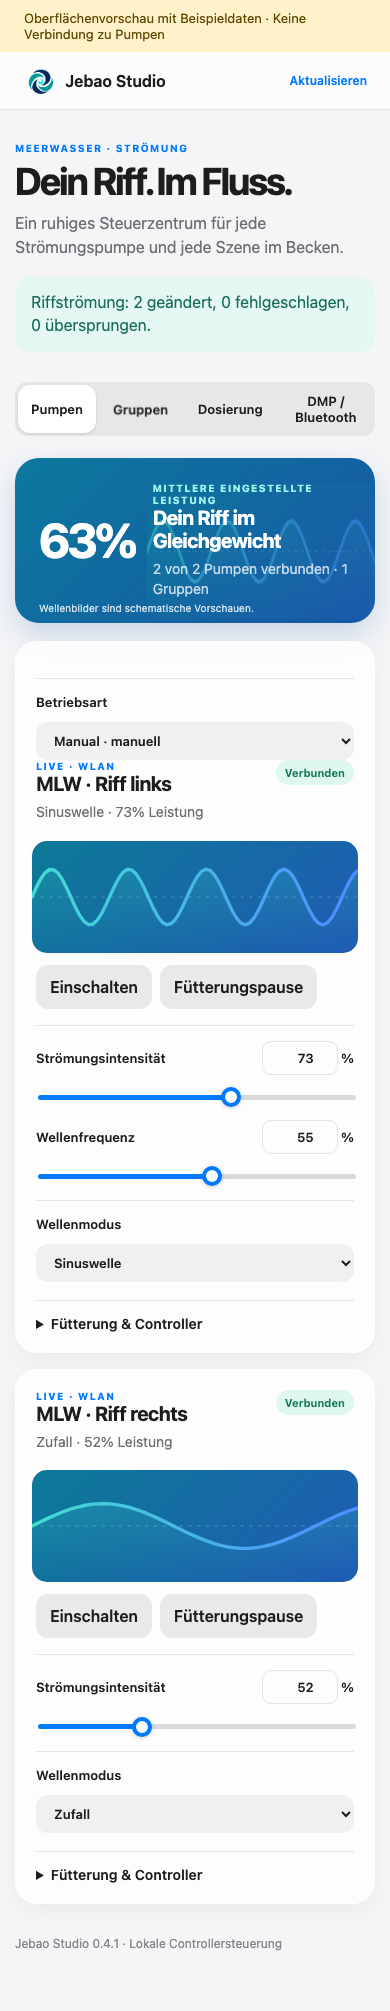
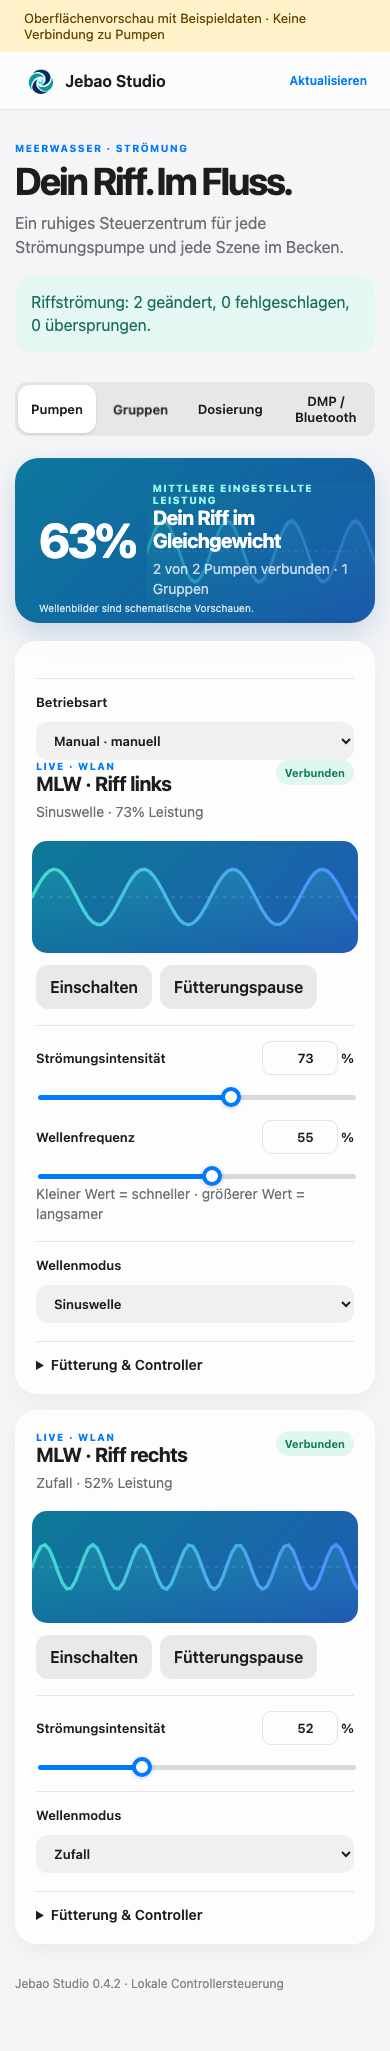
Correct wave rate preview and retry unconfirmed controller settings

diff --git a/custom_components/jebao_studio/panel/jebao-studio.js b/custom_components/jebao_studio/panel/jebao-studio.js
@@ -1,4 +1,4 @@
-import {command, offline, labels, groupDevices, controllable, controlsForDevice} from './model.js?v=0.4.1';
+import {command, offline, labels, groupDevices, controllable, controlsForDevice} from './model.js?v=0.4.2';
 
 const el=(tag,text,cls)=>{const n=document.createElement(tag);if(text!=null)n.textContent=text;if(cls)n.className=cls;return n};
 const n=value=>Math.max(0,Math.min(100,Number(value)||0));
@@ -15,7 +15,7 @@ class JebaoStudioPanel extends HTMLElement {
   connectedCallback(){if(this._renderGuardInstalled)return;this._renderGuardInstalled=true;this._drafts=new Map();this._interacting=false;const draw=this.render.bind(this);this.render=()=>{if(!this._interacting&&!this.busy&&!this.shadowRoot.activeElement?.matches('input,select')){draw();this.decorate()}};const card=this.card.bind(this);this.card=device=>this.enhanceCard(card(device),device);const groupCard=this.groupCard.bind(this);this.groupCard=group=>this.enhanceGroup(groupCard(group),group)}
   decorate(){
     const root=this.shadowRoot;
-    const footer=root.querySelector?.('footer');if(footer)footer.textContent='Jebao Studio 0.4.1 · Lokale Controllersteuerung';
+    const footer=root.querySelector?.('footer');if(footer)footer.textContent='Jebao Studio 0.4.2 · Lokale Controllersteuerung';
     for(const wave of root.querySelectorAll?.('.wave')||[])wave.setAttribute('aria-label','Schematische Modusdarstellung, keine Messung des Wasserflusses');
     const summary=root.querySelector?.('.summary');if(summary){const label=summary.querySelector('.eyebrow');if(label)label.textContent='MITTLERE EINGESTELLTE LEISTUNG';summary.append(el('small','Wellenbilder sind schematische Vorschauen.','wave-note'))}
     const style=el('style');style.textContent='details{margin-top:18px;border-top:1px solid var(--line);padding-top:14px}summary{cursor:pointer;font-size:14px;font-weight:600}details .secondary{margin-top:10px}.wave-note{position:absolute;bottom:9px;left:24px;font-size:10px;opacity:.8}button{min-height:44px}button:focus-visible,select:focus-visible,input:focus-visible{outline:3px solid #007aff;outline-offset:3px}input[type=range]{touch-action:pan-y}input:disabled{opacity:.5}.card h2{overflow-wrap:anywhere}.control-label{gap:10px;align-items:center}.summary>div:not(.wave){z-index:1}.summary .wave{pointer-events:none}';root.append(style);
@@ -77,7 +77,7 @@ class JebaoStudioPanel extends HTMLElement {
     if(failed.length)this.error=failed.map(r=>r.reason?.message||String(r.reason)).join(' · ');
     this.busy=false;this.render();
   }
-  wave(intensity,frequency,mode){const amp=8+n(intensity)*.23,cycles=1.15+n(frequency)/18,points=[];for(let x=0;x<=300;x+=4)points.push(x+','+(50-Math.sin(x/300*Math.PI*2*cycles)*amp).toFixed(1));const square=/square|rechteck|pulse|puls/i.test(String(mode||''));const path=constant(mode)?'M0 50 H300':square?'M0 50 H38 V'+(50+amp)+' H76 V'+(50-amp)+' H114 V'+(50+amp)+' H152 V'+(50-amp)+' H190 V'+(50+amp)+' H228 V'+(50-amp)+' H266 V'+(50+amp)+' H300':('M'+points.join(' L'));const box=el('div',null,'wave');box.innerHTML='<svg viewBox="0 0 300 100" preserveAspectRatio="none" aria-hidden="true"><defs><linearGradient id="j-wave" x1="0" x2="1"><stop stop-color="#44ddd2"/><stop offset="1" stop-color="#4c8cff"/></linearGradient><linearGradient id="j-fill" x1="0" x2="0" y1="0" y2="1"><stop stop-color="#44ddd2" stop-opacity=".18"/><stop offset="1" stop-color="#44ddd2" stop-opacity="0"/></linearGradient></defs><path d="M0 50 H300" stroke="rgba(255,255,255,.24)" stroke-dasharray="3 5"/><path d="'+path+' V100 H0 Z" fill="url(#j-fill)"/><path d="'+path+'" fill="none" stroke="url(#j-wave)" stroke-width="3" stroke-linecap="round"/></svg>';return box}
+  wave(intensity,frequency,mode){const amp=8+n(intensity)*.23,cycles=1.15+(100-n(frequency))/18,points=[];for(let x=0;x<=300;x+=4)points.push(x+','+(50-(/square|rechteck|pulse|puls/i.test(String(mode||''))?Math.sign(Math.sin(x/300*Math.PI*2*cycles)):Math.sin(x/300*Math.PI*2*cycles))*amp).toFixed(1));const square=/square|rechteck|pulse|puls/i.test(String(mode||''));const path=constant(mode)?'M0 50 H300':('M'+points.join(' L'));const box=el('div',null,'wave');box.innerHTML='<svg viewBox="0 0 300 100" preserveAspectRatio="none" aria-hidden="true"><defs><linearGradient id="j-wave" x1="0" x2="1"><stop stop-color="#44ddd2"/><stop offset="1" stop-color="#4c8cff"/></linearGradient><linearGradient id="j-fill" x1="0" x2="0" y1="0" y2="1"><stop stop-color="#44ddd2" stop-opacity=".18"/><stop offset="1" stop-color="#44ddd2" stop-opacity="0"/></linearGradient></defs><path d="M0 50 H300" stroke="rgba(255,255,255,.24)" stroke-dasharray="3 5"/><path d="'+path+' V100 H0 Z" fill="url(#j-fill)"/><path d="'+path+'" fill="none" stroke="url(#j-wave)" stroke-width="3" stroke-linecap="round"/></svg>';return box}
   slider(entity,title,fn,unit){
     if(!entity)return null;
     this._drafts??=new Map();
@@ -107,7 +107,7 @@ class JebaoStudioPanel extends HTMLElement {
     number.oninput=()=>{begin();if(number.checkValidity()&&number.value!==''){input.value=number.value;paint()}};
     number.onchange=commit;number.onkeydown=event=>{if(event.key==='Enter'){event.preventDefault();commit()}if(event.key==='Escape'){number.value=input.value=state.state;paint();this._interacting=false;number.blur()}};
     number.onblur=()=>{if(number.checkValidity()&&number.value!=='')commit();else{number.value=input.value=committed;paint();this._interacting=false}};
-    input.onblur=()=>{this._interacting=false};wrap.append(label,input,hint);return wrap;
+    input.onblur=()=>{this._interacting=false};wrap.append(label,input,hint);if(/frequenz/i.test(title))wrap.append(el('small','Kleiner Wert = schneller · größerer Wert = langsamer','subtle'));return wrap;
   }
   picker(entity,fn){if(!entity)return null;const state=this._hass.states[entity.entity_id],row=el('label',null,'mode-picker'),select=el('select');row.append(el('span','Wellenmodus'));for(const v of state.attributes.options||[]){const o=el('option',labels[v]||v);o.value=v;o.selected=v===state.state;select.append(o)}select.disabled=this.busy;select.setAttribute('aria-label',entity.name||'Modus');select.onchange=async()=>{select.disabled=true;try{await fn(select.value)}finally{select.disabled=false;select.blur();this.render()}};select.onblur=()=>{if(!this.busy)this.render()};row.append(select);return row}
   card(device){const card=el('article',null,'card');if(device.configured_only){card.append(el('div','GESPEICHERT · NICHT GELADEN','eyebrow'),el('h2',device.name),el('p','Der Controller ist eingerichtet, aber nicht aktiv. Bitte Home Assistant neu starten und die Integration prüfen.','subtle'));return card}const c=controls(device,this._hass.states),online=device.entities.some(e=>!offline(this._hass.states[e.entity_id])),raw=this._hass.states[c.mode?.entity_id]?.state,mode=labels[raw]||raw||'Automatisch',intensity=value(c.intensity,this._hass.states),frequency=value(c.frequency,this._hass.states),head=el('div',null,'card-header'),copy=el('div');copy.append(el('div',online?'LIVE · WLAN':'OFFLINE','eyebrow'),el('h2',device.name),el('p',mode+' · '+intensity+'% Leistung','subtle'));head.append(copy,el('span',online?'Verbunden':'Nicht erreichbar',online?'pill live':'pill'));card.append(head,this.wave(intensity,frequency,raw));const actions=el('div',null,'actions');if(c.power){const on=this._hass.states[c.power.entity_id]?.state==='on';actions.append(this.button(on?'Ausschalten':'Einschalten',()=>this.set(c.power.entity_id,!on),on?'primary':'secondary'))}if(c.feed)actions.append(this.button('Fütterungspause',()=>this.set(c.feed.entity_id,true),'secondary'));card.append(actions);if(!online){card.append(el('p','Steuerung wird wieder verfügbar, sobald der Controller erreichbar ist.','offline-note'));return card}const area=el('div',null,'control-area'),strength=this.slider(c.intensity,'Strömungsintensität',x=>this.set(c.intensity.entity_id,x));if(strength)area.append(strength);if(!constant(raw)){const frequencyControl=this.slider(c.frequency,'Wellenfrequenz',x=>this.set(c.frequency.entity_id,x));if(frequencyControl)area.append(frequencyControl)}card.append(area);const picker=this.picker(c.mode,x=>this.set(c.mode.entity_id,x));if(picker)card.append(picker);return card}

diff --git a/tests/panel-loading.test.js b/tests/panel-loading.test.js
@@ -114,3 +114,12 @@ test('group checks every range before sending and reports partial failure', asyn
   assert.match(panel.notice,/1 geändert, 1 fehlgeschlagen/);
   assert.match(panel.error,/Controller offline/);
 });
+
+test('higher frequency controller values draw fewer cycles for sine and pulse', async () => {
+  const panel=await boot();
+  for(const mode of ['sine_wave','square_wave']){
+    const path=f=>panel.wave(70,f,mode).innerHTML.match(/<path d="(M[^\"]+) V100/)[1];
+    const crossings=f=>path(f).split(' L').map(p=>Number(p.split(',')[1])).filter(Number.isFinite).reduce((a,y,i,all)=>a+(i>0&&(y>50)!==(all[i-1]>50)?1:0),0);
+    assert.ok(crossings(10)>crossings(90));
+  }
+});

diff --git a/tests/test_protocol.py b/tests/test_protocol.py
@@ -42,7 +42,7 @@ class ProtocolTests(unittest.IsolatedAsyncioTestCase):
             sent.append(payload[4:])
             return b'\x00'
         device._send_command_with_seq = send
-        await device.set_device_attribute('Flow', 73)
+        await device.set_multiple_attributes({'Flow': 73})
         # action + eight datapoint flags + ten live-control bytes.
         self.assertEqual(len(sent[0]), 19)
         self.assertEqual(sent[0][0], 1)
@@ -57,7 +57,7 @@ class ProtocolTests(unittest.IsolatedAsyncioTestCase):
             await asyncio.sleep(0)
             return b'\x00'
         device._send_command_with_seq = send
-        await asyncio.gather(*(device.set_device_attribute('Flow', value) for value in (30, 40, 50)))
+        await asyncio.gather(*(device.set_multiple_attributes({'Flow': value}) for value in (30, 40, 50)))
         self.assertEqual(len(set(sequences)), 3)
 
     async def test_write_ack_applies_the_controller_status_to_entities(self):
@@ -79,6 +79,45 @@ class ProtocolTests(unittest.IsolatedAsyncioTestCase):
         with self.assertRaises(RuntimeError):
             await make_device().set_device_attribute('SwitchON', True)
 
+    async def test_retries_numeric_write_until_full_ack_matches(self):
+        device = make_device(); device._connected = True
+        calls = []
+        async def send(cmd, response, seq, payload, timeout):
+            calls.append(seq)
+            status = bytearray(device.max_status_len)
+            status[2] = 73 if len(calls) == 2 else 40
+            return b'\x00' + status
+        async def readback(timeout=3):
+            return False
+        device._send_command_with_seq = send
+        device.request_status_update = readback
+        await device.set_device_attribute('Flow', 73)
+        self.assertEqual(len(calls), 2)
+        self.assertNotEqual(calls[0], calls[1])
+        self.assertEqual(device.get_attribute('Flow'), 73)
+
+    async def test_delayed_readback_prevents_duplicate_write(self):
+        device = make_device(); device._connected = True
+        calls = []
+        async def send(*args):
+            calls.append(args)
+            return b'\x00'
+        async def readback(timeout=3):
+            status = bytearray(device.max_status_len); status[3] = 61
+            device._apply_status_data(status)
+            return True
+        device._send_command_with_seq = send
+        device.request_status_update = readback
+        await device.set_device_attribute('Frequency', 61)
+        self.assertEqual(len(calls), 1)
+
+    async def test_program_mode_stops_manual_write_before_sending(self):
+        device = make_device(); device._connected = True
+        status = bytearray(device.max_status_len); status[1] = 8
+        device._apply_status_data(status)
+        with self.assertRaisesRegex(ProtocolError, 'Manual'):
+            await device.set_device_attribute('Flow', 73)
+
     async def test_mode_preserves_neighbouring_power_and_linkage(self):
         device = make_device(); device._connected = True
         initial = bytearray(device.max_status_len)
@@ -90,7 +129,7 @@ class ProtocolTests(unittest.IsolatedAsyncioTestCase):
             return b'\x00'
         device._send_command_with_seq = send
         for mode in range(4):
-            await device.set_device_attribute('Mode', mode)
+            await device.set_multiple_attributes({'Mode': mode})
             self.assertEqual(sent[-1][1:9], bytes.fromhex('0000000000000020'))
             self.assertEqual(sent[-1][9:13], bytes([0, 0x81 | (mode << 5), 75, 61]))
 
@@ -104,6 +143,9 @@ class ProtocolTests(unittest.IsolatedAsyncioTestCase):
                 # Full controller status still says Flow=0, rejecting Flow=73.
                 await device._handle_incoming_packet(b'\x00\x94', seq + b'\x00' + bytes(device.max_status_len))
         device.writer = Writer()
+        async def no_readback(timeout=3):
+            return False
+        device.request_status_update = no_readback
         with self.assertRaisesRegex(ProtocolError, 'Flow'):
             await device.set_device_attribute('Flow', 73)
         self.assertTrue(device.writer.packet.startswith(b'\x00\x00\x00\x03'))

diff --git a/custom_components/jebao_studio/gizwits_lan/device.py b/custom_components/jebao_studio/gizwits_lan/device.py
@@ -296,7 +296,27 @@ class Device:
         Raises:
             RuntimeError: If device not connected
         """
-        return await self.set_multiple_attributes({attr_name: value}, timeout)
+        if attr_name not in {"Flow", "Frequency", "Mode"}:
+            return await self.set_multiple_attributes({attr_name: value}, timeout)
+        for attempt in range(3):
+            if self.get_attribute("TimerON") is True:
+                raise ProtocolError("Programm-Modus aktiv. Für manuelle Änderungen zuerst auf Manual umstellen.")
+            try:
+                ack = await self.set_multiple_attributes({attr_name: value}, timeout)
+                if ack and len(ack) >= self.max_status_len:
+                    return ack  # Full ACK was already checked against the target.
+                # A bare ACK confirms transport only, not the requested setting.
+                if await self.request_status_update(timeout=timeout) and self.get_attribute(attr_name) == value:
+                    return ack
+                raise ProtocolError("Controller did not confirm requested value for: " + attr_name)
+            except ProtocolError:
+                if attempt == 2:
+                    raise
+                # Give delayed firmware updates time to settle before resending.
+                await asyncio.sleep(0.35 * (attempt + 1))
+                if await self.request_status_update(timeout=timeout) and self.get_attribute(attr_name) == value:
+                    return b""  # Read-back confirms the previous command.
+                logger.debug("Retrying %s write, attempt %d/3", attr_name, attempt + 2)
 
     async def set_multiple_attributes(self, updates: dict, timeout=3.0):
         if not self._connected:  # Check TCP connection state

diff --git a/tests_homeassistant/test_integration.py b/tests_homeassistant/test_integration.py
@@ -167,7 +167,7 @@ async def test_actual_panel_registration_is_admin_only_and_idempotent(hass):
     panel = hass.data[frontend.DATA_PANELS]['jebao-studio']
     assert panel.require_admin is True
     assert panel.sidebar_title == 'Jebao Studio'
-    assert panel.config['_panel_custom']['module_url'].endswith('?v=0.4.1')
+    assert panel.config['_panel_custom']['module_url'].endswith('?v=0.4.2')
     hass.http.async_register_static_paths.assert_awaited_once()
     async_remove_studio_panel(hass)
     assert 'jebao-studio' not in hass.data[frontend.DATA_PANELS]

diff --git a/custom_components/jebao_studio/panel.py b/custom_components/jebao_studio/panel.py
@@ -22,7 +22,7 @@ async def async_register_studio_panel(hass):
         await async_register_panel(
             hass, frontend_url_path=PANEL_PATH,
             webcomponent_name="jebao-studio-panel", sidebar_title="Jebao Studio",
-            sidebar_icon="mdi:waves", module_url="/jebao_studio_panel/jebao-studio.js?v=0.4.1",
+            sidebar_icon="mdi:waves", module_url="/jebao_studio_panel/jebao-studio.js?v=0.4.2",
             require_admin=True, embed_iframe=False,
         )
 

diff --git a/docs/release-0.4.2.md b/docs/release-0.4.2.md
@@ -1,0 +1,23 @@
+# Jebao Studio 0.4.2
+
+Die schematische Vorschau verwendet jetzt die tatsächliche Richtung des
+MLW-Frequenzparameters: kleine Werte = schnelle Wellen, große Werte = langsame
+Wellen. Das gilt für Sinus und Puls. Die an den Controller gesendeten Werte
+werden nicht invertiert; sie entsprechen weiterhin der Jebao-App. Ein Hinweis
+am Regler erklärt die Richtung. Die Vorschau ist keine kalibrierte Hz-Messung.
+
+Für lokale Flow-, Frequency- und Mode-Schreibbefehle gibt es maximal drei
+Versuche mit neuen Sequenznummern. Volle ACK-Statusantworten werden geprüft.
+Bei kurzen ACKs wird der Status abgefragt. Bei ausbleibender Bestätigung wird
+nach einer kurzen Pause zurückgelesen, bevor erneut gesendet wird; ein verspätet
+bestätigter Wert verhindert unnötige Wiederholungen. Nach drei erfolglosen
+Versuchen bleibt ein Fehler sichtbar. Die Vorgänge bleiben je Controller
+serialisiert. Ein/Aus und Fütterung werden nicht automatisch wiederholt.
+
+Bei gemeldetem Programm-Modus bricht das lokale Backend manuelle Flow-,
+Frequency- und Mode-Befehle mit einem Hinweis auf Manual ab. Es schaltet nicht
+eigenmächtig die Betriebsart um. Cloud-Schreibbefehle verwenden weiterhin den
+vorhandenen Cloud-Pfad.
+
+Tests decken vorübergehende Ablehnung, verzögertes Readback, Programm-Modus und
+die Richtung beider Wellenformen ab. Die Hardware-Akzeptanz ist vor Ort zu prüfen.

diff --git a/CHANGELOG.md b/CHANGELOG.md
@@ -1,5 +1,11 @@
 # Änderungen
 
+## 0.4.2
+
+- Wellenvorschau korrigiert: höhere Frequenz-Controllerwerte bedeuten langsamere Wellen.
+- Leistung, Frequenz und Modus werden bei fehlender Bestätigung begrenzt wiederholt und zurückgelesen.
+- Programm-Modus verhindert manuelle Reglerbefehle auch im lokalen Backend.
+
 ## 0.4.1
 
 - Programm-/Manual-Betriebsart sichtbar auf der Pumpenkarte und direkt umschaltbar.
